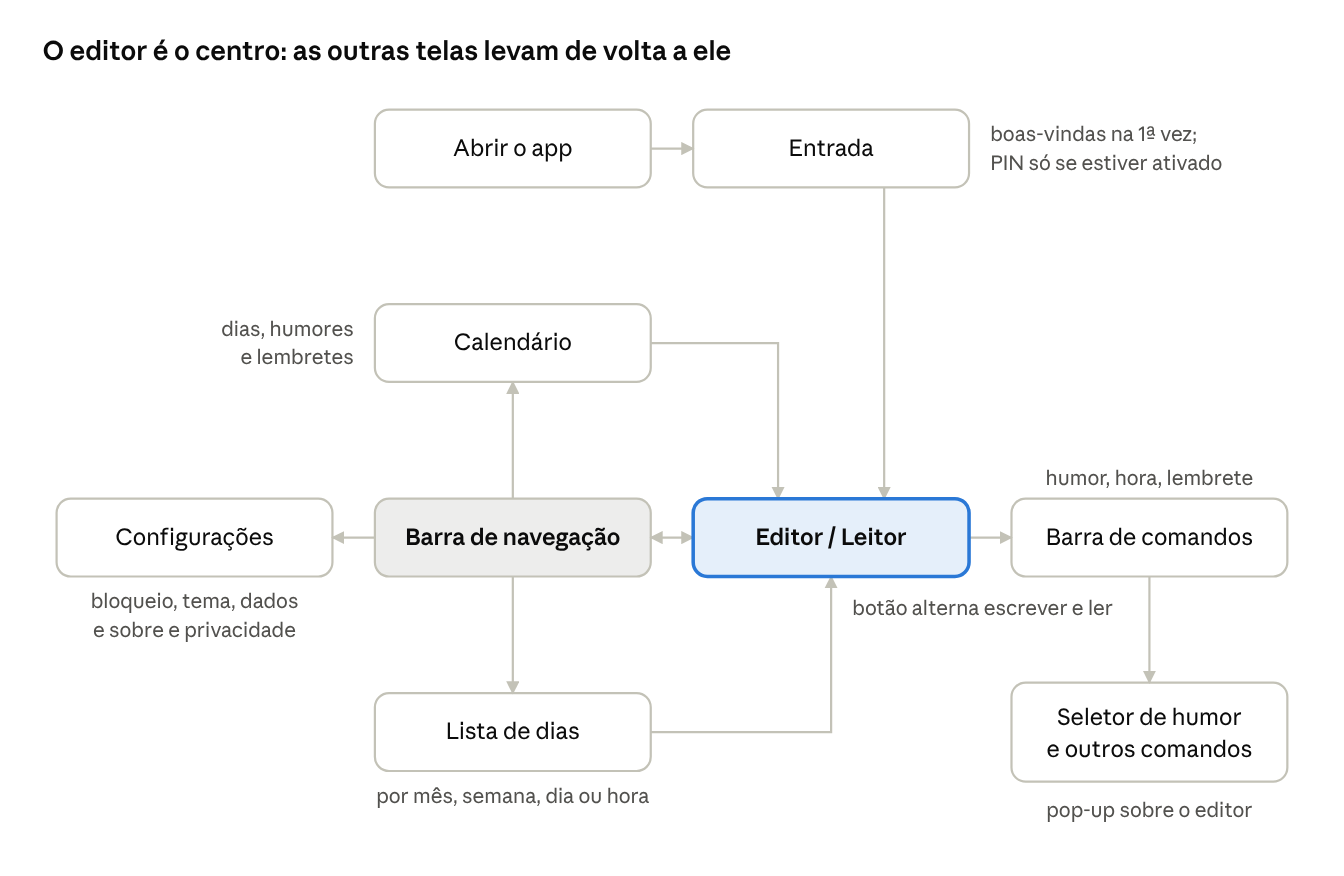
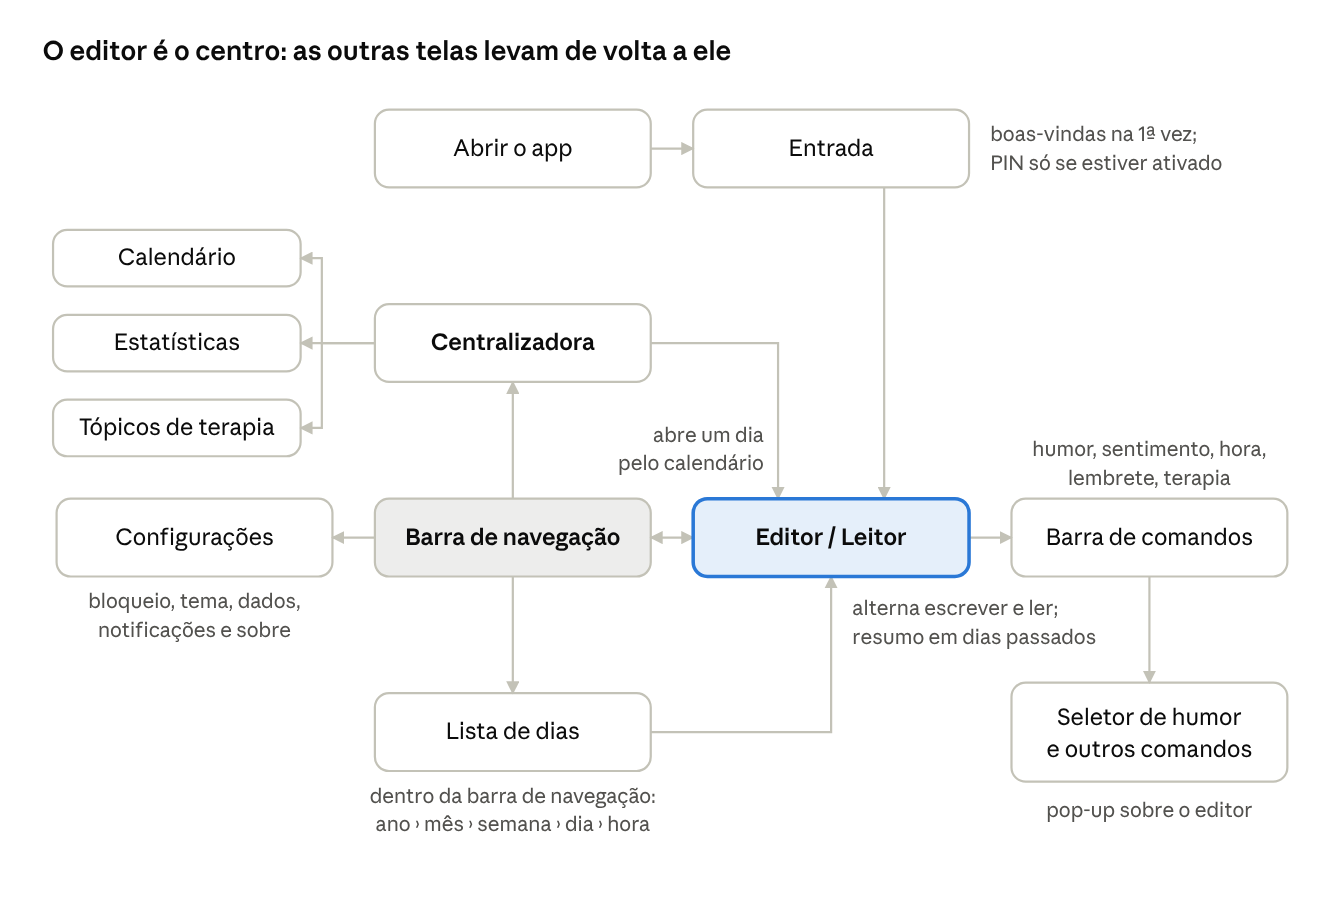
Atualiza o escopo de design com as decisões do grupo
Novos comandos sentimento/ e terapia/, Centralizadora com calendário,
tópicos de terapia e estatísticas, resumo do dia, lista de dias em pastas,
acessibilidade e cronograma. O documento passa a ser a fonte da verdade do design.

Claude-Session: https://claude.ai/code/session_016HpJk1Cxr8VGWsJtXocNDi

diff --git a/docs/ESCOPO-DESIGN.md b/docs/ESCOPO-DESIGN.md
@@ -1,34 +1,45 @@
-# Diário — Escopo de Design (UI/UX) (sintetizada)
+# Diário — Escopo de Design (UI/UX)
 
-Versão sintetizada do escopo de design, feito na cadeira de Design de Interfaces. Atualizado em 13/10/2026.
+15/10/2026 · Darci
 
 ## Introdução
 
-**O produto.** O Diário é um app de diário pessoal para celular e computador. Cada dia é um texto livre, e o humor e a hora são escritos no próprio texto com comandos simples: `humor/4` registra o humor (escala de 1 a 5) e `hora/` abre um momento do dia com horário. Os botões da interface só inserem ou editam esses comandos. Os dados ficam só no aparelho, sem conta nem login.
+**O produto.** O Diário é um app de diário pessoal para celular e computador. Cada dia é um texto livre, e humor, sentimentos, horários e assuntos para a terapia são escritos no próprio texto com comandos simples. Os botões da interface só inserem ou editam esses comandos. A partir deles, o app monta sozinho estatísticas e um resumo de cada dia, sem inteligência artificial. O app é open source e 100% offline: os dados ficam só no aparelho, sem conta nem login.
+
+**Como o trabalho anda.** O design vem primeiro: fluxogramas, protótipos e componentes no Figma. Só depois começa a programação, que fica fora do prazo desta cadeira. Este documento é a fonte da verdade do design: o grupo discute as ideias e as decisões são registradas aqui. Mais tarde, o escopo do código (ESCOPO.md e CLAUDE.md, no repositório) será atualizado a partir dele.
 
 **O desafio de design.** Fazer um editor de texto parecer um diário acolhedor, tornar os comandos fáceis de descobrir sem virar formulário, e mostrar o humor em cores sem depender só de cor.
 
-**Todo comando é texto.** Humor, hora, lembrete e apelido não são campos de formulário: são palavras escritas no próprio texto do dia, seguidas de uma barra. O texto é a única fonte de verdade. Os botões da barra de comandos só escrevem ou trocam essas palavras no texto, como um atalho; a pessoa pode sempre digitá-las à mão. Um comando escrito errado (como `humor/7`) continua no texto como texto comum e ganha um aviso discreto ao lado.
+**Todo comando é texto.** Humor, sentimento, hora, lembrete, apelido e terapia não são campos de formulário: são palavras escritas no próprio texto do dia, seguidas de uma barra. O texto é a única fonte de verdade. Os botões da barra de comandos só escrevem ou trocam essas palavras no texto, como um atalho; a pessoa pode sempre digitá-las à mão. Um comando escrito errado (como `humor/7`) continua no texto como texto comum e ganha um aviso discreto ao lado.
 
 | Comando | Exemplo | O que faz |
 | --- | --- | --- |
-| `humor/N` | `humor/4` | Registra o humor do momento, de 1 a 5. Na leitura, vira emoji e cor |
+| `humor/N` | `humor/4` | Registra como a pessoa se sente no momento, numa escala de 1 (me sinto mal) a 5 (me sinto bem). Na leitura, vira cor e emoji, e é o que aparece no calendário |
+| `sentimento/` | `sentimento/an1` | Registra um sentimento por sigla e intensidade de 1 a 3. `an1` quer dizer "levemente ansioso". Na leitura, vira emoji |
 | `hora/` | `hora/14:32` | Abre um novo momento do dia com horário. Na leitura, vira o cabeçalho do bloco |
 | `lembrete/` | `lembrete/ ligar pro dentista` | Escrito num dia futuro, aparece em destaque quando esse dia chega |
 | `apelido/` | `apelido/ o dia do campeonato` | Dá um nome ao dia inteiro, que aparece na lista de dias e no cabeçalho da leitura |
+| `terapia/` | `terapia(T)/ falar sobre o trabalho /terapia` | Registra um assunto para levar à terapia. O tópico vai para a aba "Tópicos de terapia" |
+
+**Regras dos comandos**
+
+- **Humor:** cada momento do dia tem no máximo um `humor/`. Se a pessoa digita um segundo `humor/` num momento que já tem humor, o app insere sozinho um `hora/` com a hora atual antes dele, abrindo um momento novo. O botão de humor nunca abre momento novo: se o momento já tem humor, ele só troca o valor.
+- **Sentimento:** cabe mais de um no mesmo momento. As siglas são uma lista fixa, definida pelo grupo, cada uma com intensidade 1 (levemente), 2 (moderadamente) ou 3 (muito). Por enquanto, os sentimentos não aparecem no calendário.
+- **Terapia, ao escrever:** ao digitar `terapia/`, o texto que vem depois aparece em outra cor, para a pessoa ver que está dentro do tópico. Um tópico pode ter mais de um parágrafo: um Enter começa um parágrafo novo dentro do tópico. Dois Enters seguidos (uma linha em branco) fazem o app fechar o tópico sozinho com `/terapia`, e o trecho fica com um destaque de outra cor.
+- **Terapia, aberto ou fechado:** a marca fica junto do comando. O app escreve sozinho `terapia(T)/` para um tópico aberto. Quando a pessoa marca o tópico como concluído na aba "Tópicos de terapia", ele sai da aba e o comando vira `terapia(F)/`. A pessoa também pode trocar a marca à mão.
 
 ## Objetivos e princípios de design
 
 O design deve deixar escrever o dia em poucos segundos e reler a semana num relance. Os princípios abaixo servem de critério para decidir entre alternativas.
 
-1. **Escrever vem primeiro.** Ao abrir o app, o cursor já está no dia de hoje. Nada de telas intermediárias.
-2. **O texto é a verdade.** Botões e seletores são atalhos que escrevem comandos no texto. A interface nunca mostra um dado que não esteja no texto.
-3. **Comandos descobríveis, não obrigatórios.** Quem nunca leu as instruções deve conseguir registrar o humor pelo botão. Quem conhece pode digitar `humor/4`.
-4. **Mobile primeiro.** Todas as telas nascem em 390 × 844. O desktop é adaptação no fim.
-5. **Humor nunca só por cor.** Cor sempre acompanhada de emoji, número ou texto.
-6. **Privacidade visível.** O app diz claramente que os dados ficam no aparelho e que não há criptografia.
-7. **Calma, não gamificação.** Sem sequências, metas ou notificações que cobrem a pessoa. Tom acolhedor e discreto.
-8. **Partir do design system do grupo.** Componentes novos seguem as variáveis e padrões criados na primeira unidade.
+1. **O texto é a verdade.** Botões e seletores são atalhos que escrevem comandos no texto. A interface nunca mostra um dado que não esteja no texto. Ao exportar os dados, tudo sai como um documento de texto puro.
+2. **Open source e offline, com privacidade em primeiro lugar.** O app diz claramente que os dados ficam no aparelho, que não há criptografia e que nada é enviado para a internet.
+3. **Autonomia e personalização.** Quem quiser pode nunca usar comando nenhum e só escrever. As notificações são opcionais. O usuário tem autonomia sobre quase tudo.
+4. **Comandos descobríveis, não obrigatórios.** Quem nunca leu as instruções deve conseguir registrar o humor pelo botão. Quem conhece pode digitar `humor/4`.
+5. **Comandos são texto, mas chegam ao usuário "polidos".** Na leitura, `humor/4` vira um emoji; ao tocar para editar, o texto do comando aparece de novo.
+6. **Escrever vem primeiro.** Ao abrir o app, o cursor já está no dia de hoje, sem distrações.
+7. **Mobile primeiro.** Todas as telas nascem em 390 × 844. O desktop é adaptação no fim.
+8. **Calma, não gamificação.** Sem sequências nem metas que cobrem a pessoa. Lembretes para escrever só existem se ela ligar nas Configurações. Tom acolhedor e discreto.
 
 ## Público e pesquisa
 
@@ -40,6 +51,7 @@ O público são pessoas que querem registrar o dia e o humor sem esforço, princ
 - **Momentos do dia:** registra a manhã e, à tarde, volta para registrar outro humor num novo bloco com horário.
 - **Releitura:** no fim do mês, olha o calendário para ver como se sentiu e abre um dia específico.
 - **Recado para o futuro:** escreve um lembrete num dia que ainda vai chegar.
+- **Pauta da terapia:** durante a semana, anota assuntos com `terapia/`. Antes da sessão, abre a aba de tópicos para ver o que está em aberto e, depois, marca o que já falou.
 
 **Perguntas que o teste precisa responder**
 
@@ -50,30 +62,31 @@ O público são pessoas que querem registrar o dia e o humor sem esforço, princ
 
 ## Fluxos e protótipo
 
-O app abre direto na tela Hoje, e a navegação leva às outras telas. O protótipo no Figma deve percorrer estes caminhos sem becos sem saída.
+Depois da entrada, o app abre no editor do dia de hoje. A barra de navegação (por enquanto, uma barra lateral) traz a lista de dias e os caminhos para a Centralizadora e para as Configurações. O protótipo no Figma deve percorrer estes caminhos sem becos sem saída.
 
-![Mapa de navegação: o editor é o centro e as outras telas levam de volta a ele](mapa-navegacao.png)
+![mapa de navegação · telas principais do app completo](mapa-navegacao.png)
 
 ## Telas mobile
 
-São 12 telas, que cobrem o app completo. Os quadros têm 390 × 844, e os estados de cada tela ficam lado a lado. A última coluna diz em que nível do código a tela ou o estado entra, só como referência para a programação.
+São 15 telas, que cobrem o app completo. Os quadros têm 390 × 844, e os estados de cada tela ficam lado a lado.
 
-| # | Tela | Estados a desenhar | Nível no código |
-| --- | --- | --- | --- |
-| 1 | Boas-vindas (1 ou 2 telas) | Explica que os dados ficam no aparelho; mostra `humor/` e `hora/` | 1 |
-| 2 | Desbloqueio | Pelo bloqueio do celular (digital, rosto ou senha); pelo PIN do app: vazio, digitando, PIN errado | 4 |
-| 3 | Hoje (editor) | Dia vazio com texto de exemplo; teclado aberto com barra de comandos; dia com vários blocos; aviso de comando inválido; lembrete em destaque no topo; comandos como chips visuais | 1, com estados dos níveis 3 e 4 |
-| 4 | Seletor de humor (pop-up) | Pop-up aberto sobre o editor; 5 níveis; um selecionado; troca de humor num bloco que já tem | 1 |
-| 5 | Lista de dias | Agrupada por mês, semana, dia ou hora; com dias; vazia; card com apelido do dia; tocar num card abre o dia | 1, apelido no 4 |
-| 6 | Modo leitura do dia | Aberto a partir do próprio dia, alternando entre escrever e ler; `humor/4` vira emoji, `hora/` vira cabeçalho do bloco; com apelido no cabeçalho | 1, apelido no 4 |
-| 7 | Edição de um dia | Mesmo editor de Hoje com outra data; dia futuro com a dica do `lembrete/` | 1, dia futuro no 3 |
-| 8 | Calendário mensal | Célula vazia, com 1 ponto, com vários, acima do limite, hoje, selecionada, com lembrete; tocar num dia abre o dia direto | 2, lembrete no 3 |
-| 9 | Configurações | Exportar e importar; confirmação antes de importar; tema claro ou escuro; bloqueio ligado ou desligado | 2, tema e bloqueio no 4 |
-| 10 | Escolher bloqueio | Usar o bloqueio do celular ou criar um PIN próprio; criar PIN, confirmar, os dois não coincidem; trocar PIN | 4 |
-| 11 | Instalar o app | Convite discreto para pôr na tela inicial | 2 |
-| 12 | Sobre e privacidade | Repositório, licença, aviso de que não há criptografia | 1 |
-
-**Tema escuro:** não são telas novas, e sim as mesmas telas num segundo modo das variáveis de cor. Vale desenhar pelo menos Hoje, Lista de dias e Calendário no escuro para validar o contraste.
+| # | Tela | Estados a desenhar |
+| --- | --- | --- |
+| 1 | Boas-vindas (1 ou 2 telas) | Explica que os dados ficam no aparelho; mostra os comandos principais |
+| 2 | Desbloqueio | Pelo bloqueio do celular (digital, rosto ou senha); pelo PIN do app: vazio, digitando, PIN errado |
+| 3 | Hoje (editor) | Dia vazio com texto de exemplo; teclado aberto com barra de comandos; dia com vários blocos; aviso de comando inválido; lembrete em destaque no topo; tópico de terapia sendo escrito (texto em outra cor) e fechado (trecho destacado); comandos como chips visuais |
+| 4 | Seletor de humor e outros comandos (pop-up) | Pop-up aberto sobre o editor; humor de 1 a 5, um selecionado; troca de humor num bloco que já tem; sentimentos com sigla e intensidade de 1 a 3, vários selecionados |
+| 5 | Lista de dias (na barra de navegação) | Pastas que abrem e fecham: ano (só com registros em mais de um ano) › mês › semana (de domingo a sábado) › dia › momentos do dia (os blocos abertos com `hora/`); barra aberta e fechada; vazia; dia com apelido; atalhos para a Centralizadora e as Configurações |
+| 6 | Modo leitura do dia | Aberto a partir do próprio dia, alternando entre escrever e ler; resumo do dia no topo, só em dias passados; `humor/4` vira cor e emoji, `sentimento/` vira emoji, `hora/` vira cabeçalho do bloco, `terapia/` aparece destacado; apelido no cabeçalho |
+| 7 | Edição de um dia | Mesmo editor de Hoje com outra data; dia futuro com a dica do `lembrete/` |
+| 8 | Centralizadora | Reúne o calendário, os tópicos de terapia em aberto e as estatísticas, com caminho para cada um |
+| 9 | Calendário mensal | Célula vazia, com 1 ponto, com vários, acima do limite, hoje, selecionada, com lembrete; tocar num dia abre o dia direto |
+| 10 | Tópicos de terapia | Lista dos tópicos em aberto, com o dia em que foram escritos; marcar como concluído (sai da lista e vira `terapia(F)/` no texto); abrir o dia do tópico; lista vazia |
+| 11 | Estatísticas | Frases geradas automaticamente (ex.: "você se sente ansioso na maioria das terças") e gráficos de humor e sentimentos; poucos dados; sem dados |
+| 12 | Configurações | Exportar e importar; confirmação antes de importar; tema claro ou escuro; bloqueio ligado ou desligado; lembrete para escrever ligado ou desligado, com horário |
+| 13 | Escolher bloqueio | Usar o bloqueio do celular ou criar um PIN próprio; criar PIN, confirmar, os dois não coincidem; trocar PIN |
+| 14 | Instalar o app | Convite discreto para pôr na tela inicial |
+| 15 | Sobre e privacidade | Repositório, licença, aviso de que não há criptografia |
 
 **Estados que costumam ser esquecidos:** primeiro uso, erro ao salvar, texto muito longo, dia com muitos blocos, e confirmação antes de substituir dados na importação.
 
@@ -90,23 +103,36 @@ A navegação e a célula do calendário dependem de decisões ainda em aberto. 
 
 ## Fundamentos do design system
 
-São 11 fundamentos que o grupo precisa definir antes de desenhar componentes e telas, porque todo o resto depende deles. O design system da primeira unidade é a base: o que já estiver nele basta confirmar e marcar como decidido. Tudo vira variável do Figma, nunca cor ou medida solta numa tela.
+São 13 fundamentos que o grupo precisa definir antes de desenhar componentes e telas, porque todo o resto depende deles. O design system da primeira unidade é a base: o que já estiver nele basta confirmar e marcar como decidido. Tudo vira variável do Figma, nunca cor ou medida solta numa tela.
 
 | Fundamento | O que definir | Ponto de partida | Situação |
 | --- | --- | --- | --- |
 | Cores de base | Fundo, superfícies, texto, bordas, destaque e aviso, nos temas claro e escuro | Célula do calendário com fundo neutro, sem degradê, e contraste com os pontos de humor | A definir |
 | Fontes | Fonte da interface e fonte do texto do diário (a mesma ou uma serifada para leitura) | Gratuitas, com licença aberta e acentos do português (ex.: Google Fonts) | A definir |
 | Tipografia | Escala de tamanhos, pesos e entrelinhas para títulos, texto do diário, rótulos e legendas | Texto do editor com pelo menos 16 px no celular e entrelinha confortável; testar a leitura no celular | A definir |
-| Ícones | Biblioteca e estilo (linha ou preenchido, espessura, cantos); ícones de hora, humor, lembrete, calendário, dias, configurações e cadeado | Uma biblioteca aberta, compatível com a licença MIT e no estilo do design system existente | A definir |
+| Ícones | Biblioteca e estilo (linha ou preenchido, espessura, cantos); ícones de hora, humor, sentimento, lembrete, terapia, calendário, dias, estatísticas, configurações e cadeado | Uma biblioteca aberta, compatível com a licença MIT e no estilo do design system existente | A definir |
 | Espaçamento e grid | Unidade base, margens laterais, grid do celular e do desktop | Unidade de 4 ou 8 px; alvos de toque de no mínimo 44 px, inclusive nas células do calendário | A definir |
-| Cantos, sombras e bordas | Raio padrão e elevação do pop-up e da barra lateral | Seguir o design system existente | A definir |
-| Movimento | Como abrem o pop-up, a barra lateral e a troca entre escrever e ler | Curto e simples; respeitar a opção de reduzir movimento | A definir |
+| Cantos, sombras e bordas | Raio padrão e elevação do pop-up e da barra de navegação | Seguir o design system existente | A definir |
+| Movimento | Como abrem o pop-up, a barra de navegação, as pastas da lista de dias e a troca entre escrever e ler | Curto e simples; respeitar a opção de reduzir movimento | A definir |
 | Paleta dos 5 humores | As cores das variáveis `mood/1` a `mood/5` | Espectro que varia também a luminosidade; testado para daltonismo e nos dois temas | A definir |
 | Emojis de humor | Um emoji ou ícone por nível de 1 a 5: emoji do sistema (muda de aparelho para aparelho) ou desenho próprio | Sempre junto da cor | A definir |
-| Comandos no texto | Estilo de `humor/` e `hora/` dentro do editor | Diferente do texto comum, mas discreto | A definir |
+| Siglas dos sentimentos | A lista fixa de sentimentos, a sigla de cada um (ex.: `an` = ansioso) e como as intensidades de 1 a 3 aparecem | Siglas curtas e fáceis de lembrar; um emoji ou ícone por sentimento | A definir |
+| Comandos no texto | Estilo de `humor/`, `sentimento/` e `hora/` dentro do editor; cor do texto de um tópico de terapia aberto e destaque do tópico fechado | Diferente do texto comum, mas discreto; o destaque da terapia não pode depender só de cor | A definir |
 | Cabeçalho de bloco e avisos | Estilo do horário na leitura (`hora/14:32` vira cabeçalho) e do aviso de comando inválido | Aviso discreto, com cor e ícone | A definir |
+| Gráficos das estatísticas | Tipos de gráfico (humor ao longo do tempo, sentimentos mais frequentes) e o estilo deles | Usar as cores dos humores; sempre com rótulos, sem depender só de cor | A definir |
 
 **Tema escuro:** todas as cores viram variáveis com dois modos (claro e escuro) desde o início. Assim o tema escuro sai das mesmas telas, sem redesenhar nada.
+
+## Acessibilidade
+
+A meta é o nível AA da WCAG em todas as telas. Os pontos mais sensíveis são as cores de humor no calendário e o destaque dos tópicos de terapia.
+
+- [ ] Contraste de texto de pelo menos 4,5:1 (texto grande: 3:1), nos temas claro e escuro
+- [ ] Pontos de humor com contraste de pelo menos 3:1 sobre o fundo neutro da célula do calendário
+- [ ] Paleta de humor testada em simulação de daltonismo; as 5 cores variam também na luminosidade
+- [ ] Humor, sentimento e tópico de terapia nunca só por cor: sempre com emoji, ícone, número ou texto
+- [ ] Alvos de toque de no mínimo 44 × 44 px, inclusive nas células do calendário e nas pastas da lista de dias
+- [ ] Textos alternativos anotados no Figma para ícones, emojis e gráficos (ex.: "humor 4 de 5", "levemente ansioso")
 
 ## Regras combinadas
 
@@ -119,14 +145,59 @@ São 11 fundamentos que o grupo precisa definir antes de desenhar componentes e 
 
 1. **Primeiro uso:** boas-vindas → Hoje com texto de exemplo.
 2. **Registrar o humor pelo botão:** Hoje → barra de comandos → pop-up do seletor → humor aparece no texto.
-3. **Novo momento do dia:** bloco com humor → botão de hora → novo bloco com horário → outro humor.
-4. **Comando inválido:** digitar `humor/7` → aviso discreto ao lado da linha.
-5. **Reler um dia:** navegação → lista de dias → escolher o agrupamento → tocar num dia → alternar para o modo leitura → voltar a escrever.
-6. **Calendário:** calendário → tocar num dia → o dia abre direto.
-7. **Lembrete:** abrir um dia futuro no calendário → escrever `lembrete/` → quando o dia chega, o lembrete aparece em destaque no topo de Hoje.
-8. **Apelido do dia:** escrever `apelido/` → o apelido aparece no card da lista de dias e no cabeçalho do modo leitura.
-9. **Bloqueio:** Configurações → escolher entre o bloqueio do celular ou um PIN próprio → fechar e abrir o app → desbloquear (inclui erro).
-10. **Exportar e importar:** Configurações → exportar; importar → confirmação antes de substituir os dados.
-11. **Tema escuro:** alternar o tema e percorrer as telas principais.
+3. **Registrar sentimentos:** pop-up do seletor → escolher um ou mais sentimentos e a intensidade → `sentimento/an1` aparece no texto.
+4. **Novo momento do dia:** bloco com humor → botão de hora → novo bloco com horário → outro humor.
+5. **Comando inválido:** digitar `humor/7` → aviso discreto ao lado da linha.
+6. **Anotar um assunto para a terapia:** digitar `terapia/` → o texto fica em outra cor → Enter duas vezes → o app fecha com `/terapia` e destaca o trecho → o tópico aparece na aba de tópicos.
+7. **Concluir um tópico de terapia:** Centralizadora → Tópicos de terapia → marcar como concluído → o tópico sai da lista e vira terapia(F)/ no texto do dia.
+8. **Reler um dia:** barra de navegação → lista de dias → abrir as pastas (ano, mês, semana) → tocar num dia → resumo do dia no topo → alternar entre ler e escrever.
+9. **Calendário:** Centralizadora → calendário → tocar num dia → o dia abre direto.
+10. **Ver estatísticas:** Centralizadora → estatísticas → frases e gráficos; estado com poucos dados.
+11. **Lembrete:** abrir um dia futuro no calendário → escrever `lembrete/` → quando o dia chega, o lembrete aparece em destaque no topo de Hoje.
+12. **Apelido do dia:** escrever `apelido/` → o apelido aparece na lista de dias e no cabeçalho do modo leitura.
+13. **Bloqueio:** Configurações → escolher entre o bloqueio do celular ou um PIN próprio → fechar e abrir o app → desbloquear (inclui erro).
+14. **Lembrete para escrever:** Configurações → ligar a notificação e escolher o horário.
+15. **Exportar e importar:** Configurações → exportar; importar → confirmação antes de substituir os dados.
+16. **Tema escuro:** alternar o tema e percorrer as telas principais.
 
 No protótipo, use transições simples e o teclado do sistema como imagem para mostrar a barra de comandos acima dele.
+
+## Cronograma
+
+O roadmap do grupo, do Figma. O primeiro marco é fechar as funcionalidades até terça, 20/10.
+
+1. **Fechar funcionalidades** (até terça, 20/10).
+2. **Em paralelo:**
+    - **Protótipo de baixa fidelidade:** identificar os componentes e coletar referências de funcionalidades e de telas.
+    - **Fundamentos:** definir os itens da tabela de fundamentos.
+3. **Fechar a lista de funcionalidades.**
+4. **Fazer os componentes.**
+5. **Protótipo de alta fidelidade**, já com os componentes feitos.
+
+Fora da sequência, o grupo ainda vai discutir novas funcionalidades e o modelo de negócio.
+
+## Em aberto
+
+Estas decisões ainda precisam ser tomadas pelo grupo:
+
+- A lista fixa de sentimentos e as siglas de cada um.
+- Se, e como, os sentimentos vão aparecer no calendário.
+- O formato final da barra de navegação. Por enquanto é uma barra lateral, mas pode mudar durante o desenho das telas.
+- Quais frases e gráficos as estatísticas vão mostrar, e a partir de quantos dias de registro elas aparecem.
+- Como o resumo do dia apresenta humor, sentimentos, tópicos de terapia e lembretes.
+- Tamanho e limite dos pontos de humor por dia no calendário.
+
+## Ideias em avaliação
+
+- **Registrar comportamentos:** anotar coisas como "bebi", "dormi tarde" ou "fumei", talvez como um novo comando. Ainda não decidido.
+
+## Observações
+
+- **Notificações:** o lembrete para escrever é opcional e fica nas Configurações. Como o Diário é um app web instalável, a notificação funciona bem no Android e no computador; no iPhone, só funciona se a pessoa instalar o app na tela inicial.
+- **Sem inteligência artificial:** as estatísticas e o resumo do dia são gerados por regras simples a partir dos comandos, e o app continua 100% offline.
+
+## Fora do escopo por enquanto
+
+- Exportar dias específicos para o psicólogo e qualquer recurso ligado a modelo de negócio.
+- Login, contas, sincronização e criptografia.
+
